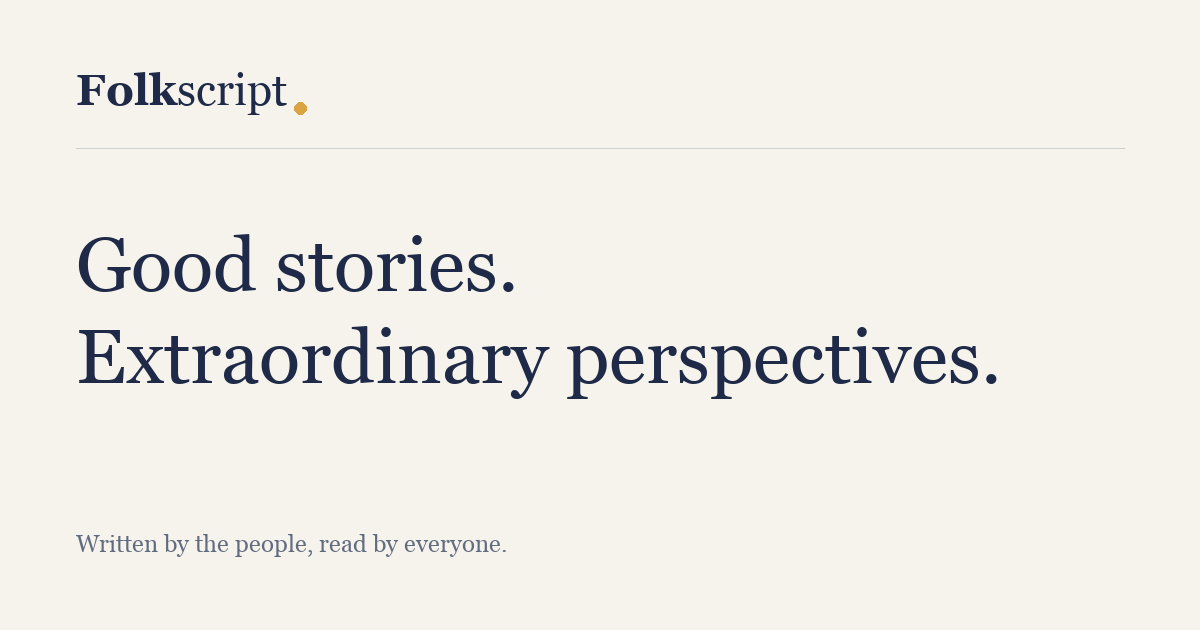
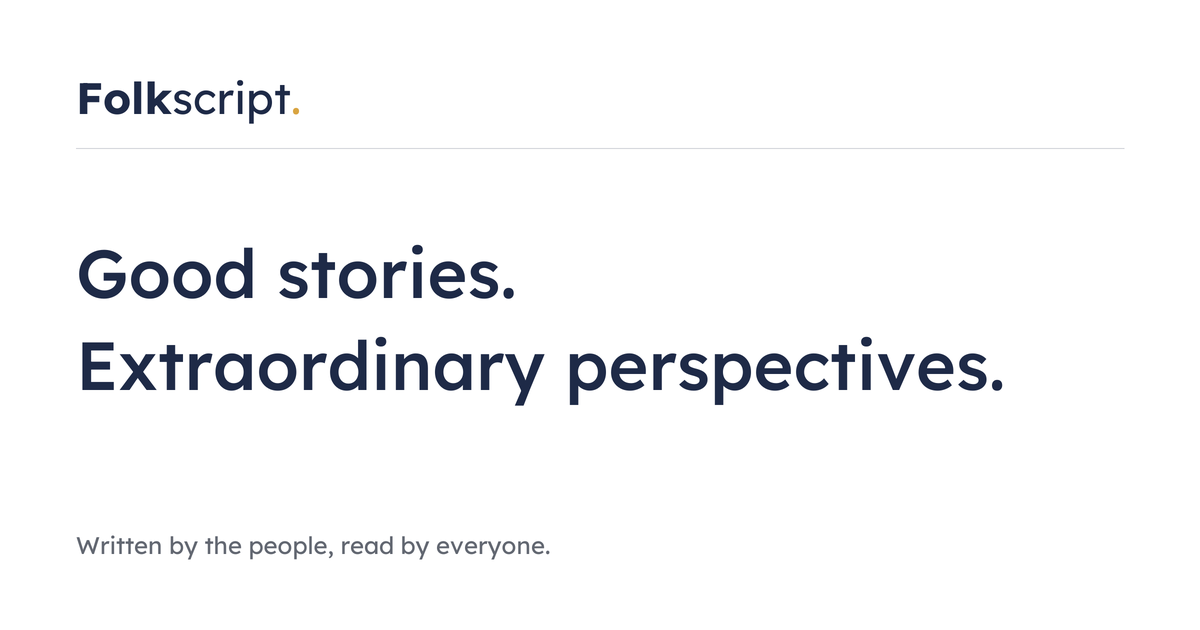
Carry Lexend into offline pages and share images

diff --git a/public/offline.html b/public/offline.html
@@ -5,9 +5,13 @@
     <meta name="viewport" content="width=device-width, initial-scale=1">
     <meta name="theme-color" content="#1E2A47">
     <title>You're offline — Folkscript</title>
+    <link rel="preload" href="/fonts/lexend-latin-wght-normal.woff2" as="font" type="font/woff2" crossorigin>
     <style>
+        @font-face{font-family:'Lexend Variable';font-style:normal;font-weight:100 900;font-display:swap;src:url('/fonts/lexend-vietnamese-wght-normal.woff2') format('woff2');unicode-range:U+0102-0103,U+0110-0111,U+0128-0129,U+0168-0169,U+01A0-01A1,U+01AF-01B0,U+0300-0301,U+0303-0304,U+0308-0309,U+0323,U+0329,U+1EA0-1EF9,U+20AB}
+        @font-face{font-family:'Lexend Variable';font-style:normal;font-weight:100 900;font-display:swap;src:url('/fonts/lexend-latin-ext-wght-normal.woff2') format('woff2');unicode-range:U+0100-02BA,U+02BD-02C5,U+02C7-02CC,U+02CE-02D7,U+02DD-02FF,U+0304,U+0308,U+0329,U+1D00-1DBF,U+1E00-1E9F,U+1EF2-1EFF,U+2020,U+20A0-20AB,U+20AD-20C0,U+2113,U+2C60-2C7F,U+A720-A7FF}
+        @font-face{font-family:'Lexend Variable';font-style:normal;font-weight:100 900;font-display:swap;src:url('/fonts/lexend-latin-wght-normal.woff2') format('woff2');unicode-range:U+0000-00FF,U+0131,U+0152-0153,U+02BB-02BC,U+02C6,U+02DA,U+02DC,U+0304,U+0308,U+0329,U+2000-206F,U+20AC,U+2122,U+2191,U+2193,U+2212,U+2215,U+FEFF,U+FFFD}
         :root{color-scheme:light dark;--paper:#FFFFFF;--ink:#1E2A47;--muted:#626771;--line:#dfe3e9}
-        *{box-sizing:border-box}body{margin:0;min-height:100svh;background:var(--paper);color:var(--ink);font-family:Georgia,serif;display:grid;place-items:center;padding:28px}main{max-width:570px}header{font-size:27px;margin-bottom:80px;letter-spacing:-1px}header::after{content:'';display:inline-block;width:6px;height:6px;border-radius:50%;background:#D9A441;margin-left:4px}small{font-size:12px;text-transform:uppercase;letter-spacing:2px;color:var(--muted)}h1{font-size:clamp(42px,8vw,64px);font-weight:400;line-height:1.04;letter-spacing:-2px;margin:20px 0}p{font-size:19px;line-height:1.7;color:var(--muted);margin:24px 0 36px}a{display:inline-block;padding:14px 23px;background:var(--ink);color:var(--paper);text-decoration:none;font-size:16px;border-radius:5px}a:focus-visible{outline:3px solid #D9A441;outline-offset:5px}footer{border-top:1px solid var(--line);padding-top:24px;margin-top:76px;color:var(--muted);font-size:14px}@media(prefers-color-scheme:dark){:root{--paper:#141B2E;--ink:#F6F3EC;--muted:#b2b9c8;--line:#35405a}}
+        *{box-sizing:border-box}body{margin:0;min-height:100svh;background:var(--paper);color:var(--ink);font-family:'Lexend Variable',system-ui,-apple-system,'Segoe UI',sans-serif;display:grid;place-items:center;padding:28px}main{max-width:570px;min-width:0}header{font-size:1.6875rem;margin-bottom:64px}header::after{content:'';display:inline-block;width:6px;height:6px;border-radius:50%;background:#D9A441;margin-left:4px}small{font-size:.875rem;color:var(--muted)}h1{font-size:clamp(2rem,7vw,3rem);font-weight:500;line-height:1.2;letter-spacing:-.015em;margin:20px 0;overflow-wrap:break-word}p{font-size:1.125rem;line-height:1.75;color:var(--muted);margin:24px 0 36px}a{display:inline-block;padding:14px 23px;background:var(--ink);color:var(--paper);text-decoration:none;font-size:1rem;border-radius:5px}a:focus-visible{outline:3px solid #D9A441;outline-offset:5px}footer{border-top:1px solid var(--line);padding-top:24px;margin-top:64px;color:var(--muted);font-size:.875rem;line-height:1.6}@media(prefers-color-scheme:dark){:root{--paper:#141B2E;--ink:#F6F3EC;--muted:#b2b9c8;--line:#35405a}}
     </style>
 </head>
 <body><main><header><strong>Folk</strong>script</header><small>A moment to reconnect</small><h1>The next good story<br>can wait a moment.</h1><p>It looks like you're offline. Reconnect to keep reading and writing with your people.</p><a href="/">Try again <span aria-hidden="true">↗</span></a><footer>Written by the people, read by everyone.</footer></main></body>

diff --git a/public/sw.js b/public/sw.js
@@ -1,7 +1,14 @@
 /* Only public, versioned assets are cached. Story, account and API responses stay on the network. */
-const CACHE = 'folkscript-public-v2';
+const CACHE = 'folkscript-public-v3';
 const OFFLINE = '/offline.html';
-const SHELL = [OFFLINE, '/favicon.svg', '/manifest.webmanifest'];
+const SHELL = [
+    OFFLINE,
+    '/favicon.svg',
+    '/manifest.webmanifest',
+    '/fonts/lexend-latin-wght-normal.woff2',
+    '/fonts/lexend-latin-ext-wght-normal.woff2',
+    '/fonts/lexend-vietnamese-wght-normal.woff2',
+];
 
 self.addEventListener('install', event => {
     event.waitUntil(caches.open(CACHE).then(cache => cache.addAll(SHELL)).then(() => self.skipWaiting()));

diff --git a/app/Http/Controllers/QuoteCardController.php b/app/Http/Controllers/QuoteCardController.php
@@ -24,11 +24,13 @@ class QuoteCardController extends Controller
             throw ValidationException::withMessages(['quote' => 'Select 12–240 characters directly from this story to create a quote card.']);
         }
 
-        return response($this->render($quote, $story), 200, [
+        $fontCss = $this->fontCss();
+
+        return response($this->render($quote, $story, $fontCss), 200, [
             'Content-Type' => 'image/svg+xml; charset=UTF-8',
             'Content-Disposition' => 'attachment; filename="'.Str::slug($story->slug).'-quote.svg"',
             'Cache-Control' => 'private, no-store',
-            'Content-Security-Policy' => "default-src 'none'; sandbox",
+            'Content-Security-Policy' => "default-src 'none'; style-src 'sha256-".base64_encode(hash('sha256', $fontCss, true))."'; font-src data:; sandbox",
             'X-Content-Type-Options' => 'nosniff',
         ]);
     }
@@ -38,7 +40,7 @@ class QuoteCardController extends Controller
         return trim(preg_replace('/\s+/u', ' ', html_entity_decode(strip_tags($text), ENT_QUOTES | ENT_HTML5, 'UTF-8')) ?? '');
     }
 
-    private function render(string $quote, Post $post): string
+    private function render(string $quote, Post $post, string $fontCss): string
     {
         $escape = fn (string $text): string => htmlspecialchars($text, ENT_QUOTES | ENT_XML1, 'UTF-8');
         foreach ([58, 52, 46, 40, 34, 30] as $fontSize) {
@@ -53,26 +55,27 @@ class QuoteCardController extends Controller
         foreach ($lines as $index => $line) {
             $text .= '<tspan x="78" y="'.round($baseline + $index * $lineHeight, 1).'">'.$escape($line).'</tspan>';
         }
-        $author = $escape(Str::limit($post->author->name, 55));
-        $title = $escape(Str::limit($post->title, 92));
+        $author = $escape($this->fitLine($post->author->name, 1035 / 25));
+        $title = $escape($this->fitLine($post->title, 1035 / 19));
         $accessibleTitle = $escape('A quote from '.$post->title.' by '.$post->author->name);
 
         return '<?xml version="1.0" encoding="UTF-8"?>'
             .'<svg xmlns="http://www.w3.org/2000/svg" width="1200" height="630" viewBox="0 0 1200 630" role="img" aria-labelledby="title description">'
             .'<title id="title">'.$accessibleTitle.'</title><desc id="description">'.$escape($quote).'</desc>'
-            .'<rect width="1200" height="630" fill="#F6F3EC"/>'
-            .'<g fill="#1E2A47" font-family="Georgia, Times New Roman, serif">'
-            .'<text x="78" y="108" font-size="40"><tspan font-weight="700">Folk</tspan>script</text>'
-            .'<circle cx="290" cy="104" r="5" fill="#D9A441"/>'
+            .'<metadata>'.$escape(file_get_contents(public_path('fonts/lexend-LICENSE.txt'))).'</metadata>'
+            .'<style><![CDATA['.$fontCss.']]></style>'
+            .'<rect width="1200" height="630" fill="#FFFFFF"/>'
+            .'<g fill="#1E2A47" font-family="Lexend Variable, system-ui, sans-serif">'
+            .'<text x="78" y="108" font-size="36"><tspan font-weight="700">Folk</tspan>script<tspan fill="#D9A441">.</tspan></text>'
             .'<text x="1122" y="102" font-size="16" text-anchor="end" fill="#606B81">A thought worth keeping.</text>'
             .'<path d="M78 148H1122" stroke="#1E2A47" stroke-opacity=".2"/>'
-            .'<text font-size="'.$fontSize.'" letter-spacing="-.6">'.$text.'</text>'
+            .'<text font-size="'.$fontSize.'">'.$text.'</text>'
             .'<text x="78" y="552" font-size="25">'.$author.'</text>'
             .'<text x="78" y="590" font-size="19" fill="#606B81">'.$title.'</text>'
             .'</g></svg>';
     }
 
-    /** Wrap using approximate serif glyph widths; split unusually long words safely. */
+    /** Wrap conservatively for Lexend's open spacing; split long words safely. */
     private function wrap(string $text, float $maximum): array
     {
         $lines = [];
@@ -81,14 +84,14 @@ class QuoteCardController extends Controller
         foreach (preg_split('/\s+/u', $text) ?: [] as $word) {
             $pieces = mb_str_split($word);
             $wordWidth = array_sum(array_map($this->glyphWidth(...), $pieces));
-            if ($line !== '' && $width + 0.3 + $wordWidth > $maximum) {
+            if ($line !== '' && $width + 0.35 + $wordWidth > $maximum) {
                 $lines[] = $line;
                 $line = '';
                 $width = 0;
             }
             if ($line !== '') {
                 $line .= ' ';
-                $width += 0.3;
+                $width += 0.35;
             }
             foreach ($pieces as $character) {
                 $glyph = $this->glyphWidth($character);
@@ -110,13 +113,38 @@ class QuoteCardController extends Controller
 
     private function glyphWidth(string $character): float
     {
-        if (str_contains('iljI.,:;!|\'’', $character)) {
-            return 0.32;
+        if (str_contains('ilj.,:;!|\'’', $character)) {
+            return 0.36;
         }
         if (str_contains('MWmw@%&', $character) || mb_strlen($character, '8bit') > 2) {
-            return 1.0;
+            return 1.05;
         }
 
-        return preg_match('/[A-Z]/', $character) ? 0.72 : 0.59;
+        return preg_match('/\p{Lu}/u', $character) ? 0.8 : 0.66;
+    }
+
+    private function fitLine(string $text, float $maximum): string
+    {
+        $width = 0.0;
+        $fitted = '';
+        foreach (mb_str_split($text) as $character) {
+            $width += $this->glyphWidth($character);
+            if ($width > $maximum - 1.05) {
+                return rtrim($fitted).'…';
+            }
+            $fitted .= $character;
+        }
+
+        return $fitted;
+    }
+
+    /** Keep downloaded cards independent of remote font servers. */
+    private function fontCss(): string
+    {
+        return preg_replace_callback(
+            '~url\([\'"]?/fonts/(lexend-[a-z-]+\.woff2)[\'"]?\)~',
+            fn (array $match): string => 'url(data:font/woff2;base64,'.base64_encode(file_get_contents(public_path('fonts/'.$match[1]))).')',
+            file_get_contents(resource_path('css/fonts.css')),
+        );
     }
 }

diff --git a/app/Jobs/GenerateOgImage.php b/app/Jobs/GenerateOgImage.php
@@ -29,9 +29,22 @@ class GenerateOgImage implements ShouldQueue
         }
         $title = e($post->title);
         $author = e($post->author->name);
-        $html = '<!doctype html><html><head><meta charset="utf-8"><style>*{box-sizing:border-box}body{margin:0;width:1200px;height:630px;background:#F6F3EC;color:#1E2A47;font-family:Georgia,serif;padding:62px 76px;display:flex;flex-direction:column}header{font-size:43px;border-bottom:1px solid #1e2a4733;padding-bottom:30px}header strong{font-weight:700}h1{font-weight:500;font-size:65px;line-height:1.1;letter-spacing:-2px;margin:auto 0;max-width:1000px}footer{font-size:24px;display:flex;justify-content:space-between;align-items:center}i{display:inline-block;width:10px;height:10px;border-radius:50%;background:#D9A441;margin-left:6px}.muted{font-size:18px;color:#636d80}</style></head><body><header><strong>Folk</strong>script<i></i></header><h1>'.$title.'</h1><footer><span>'.$author.'</span><span class="muted">Written by the people, read by everyone.</span></footer></body></html>';
+        $fontCss = $this->fontCss();
+        $html = '<!doctype html><html><head><meta charset="utf-8"><style>'.$fontCss.'*{box-sizing:border-box}body{margin:0;width:1200px;height:630px;background:#FFFFFF;color:#1E2A47;font-family:"Lexend Variable",system-ui,sans-serif;padding:62px 76px;display:flex;flex-direction:column}header{font-size:39px;border-bottom:1px solid #1e2a4733;padding-bottom:30px}header strong{font-weight:700}.title-slot{flex:1;min-height:0;display:flex;align-items:center;margin:24px 0}h1{font-weight:500;font-size:58px;line-height:1.2;letter-spacing:-.6px;margin:0;max-width:100%;overflow-wrap:anywhere}footer{font-size:22px;display:flex;justify-content:space-between;gap:28px;align-items:center}i{display:inline-block;width:10px;height:10px;border-radius:50%;background:#D9A441;margin-left:6px}.muted{font-size:16px;color:#626771}</style></head><body><header><strong>Folk</strong>script<i></i></header><main class="title-slot"><h1>'.$title.'</h1></main><footer><span>'.$author.'</span><span class="muted">Written by the people, read by everyone.</span></footer></body></html>';
         $path = 'og/'.$post->id.'-'.substr(hash('sha256', $post->title.$post->updated_at), 0, 12).'.png';
-        $browser = Browsershot::html($html)->windowSize(1200, 630)->deviceScaleFactor(1)->setScreenshotType('png')->timeout(60);
+        $browser = Browsershot::html($html)->windowSize(1200, 630)->deviceScaleFactor(1)->setScreenshotType('png')->timeout(60)
+            ->waitForFunction(<<<'JS'
+                document.fonts.ready.then(() => {
+                    const heading = document.querySelector('h1');
+                    const slot = document.querySelector('.title-slot');
+                    let size = 58;
+                    while (heading.offsetHeight > slot.clientHeight && size > 24) {
+                        size -= 2;
+                        heading.style.fontSize = `${size}px`;
+                    }
+                    return document.fonts.check('500 24px "Lexend Variable"');
+                })
+                JS);
         if ($chrome = config('seo.chrome_path')) {
             $browser->setChromePath($chrome);
         }
@@ -43,5 +56,15 @@ class GenerateOgImage implements ShouldQueue
         }
         Storage::disk('public')->put($path, $browser->screenshot());
         $post->forceFill(['og_image_path' => $path])->saveQuietly();
+    }
+
+    /** Embed bundled fonts so image generation needs no HTTP font request. */
+    private function fontCss(): string
+    {
+        return preg_replace_callback(
+            '~url\([\'"]?/fonts/(lexend-[a-z-]+\.woff2)[\'"]?\)~',
+            fn (array $match): string => 'url(data:font/woff2;base64,'.base64_encode(file_get_contents(public_path('fonts/'.$match[1]))).')',
+            file_get_contents(resource_path('css/fonts.css')),
+        );
     }
 }

diff --git a/docs/FONT_SELECTION.md b/docs/FONT_SELECTION.md
@@ -32,3 +32,7 @@ The in-app browser loaded the actual self-hosted Lexend face. Inspected article,
 Checks covered 1280px desktop, 960px tablet, 390px phone, and selected 320px narrow layouts, including light and dark states. No page-level horizontal overflow was observed. The existing navigation, menus, and theme controls remained usable. These are typography and layout checks, not a new audit of every business action or every browser engine.
 
 The production asset build passed. Impeccable's scoped typography scan reported no findings. No new test suite was added for the CSS change.
+
+Standalone offline pages, downloadable quote cards, and default/generated social-image templates also use Lexend. Quote SVGs include the font data and its license; their response policy permits only the specific font style and embedded font data, with scripts and network access blocked. The service worker caches the three font subsets with the offline shell.
+
+The browser confirmed embedded Lexend on a sample quote SVG and the offline page. The default social PNG was visually inspected. Two existing quote-card tests passed (22 assertions); PHP formatting and service-worker syntax checks passed. Long quote and caption bounds were checked with the actual font's metrics. Production screenshot-generation workers and a simulated network outage were not exercised during this font update.
